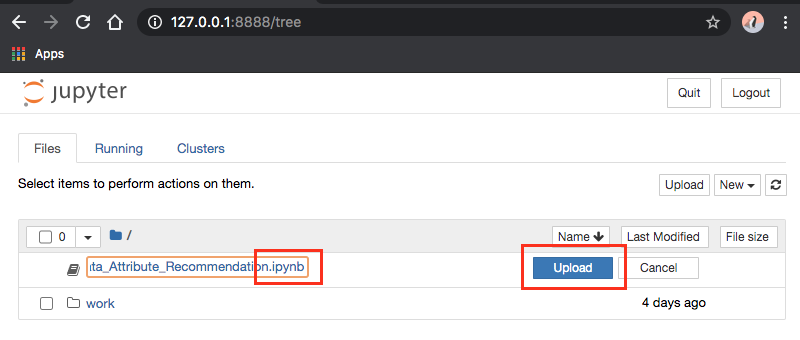
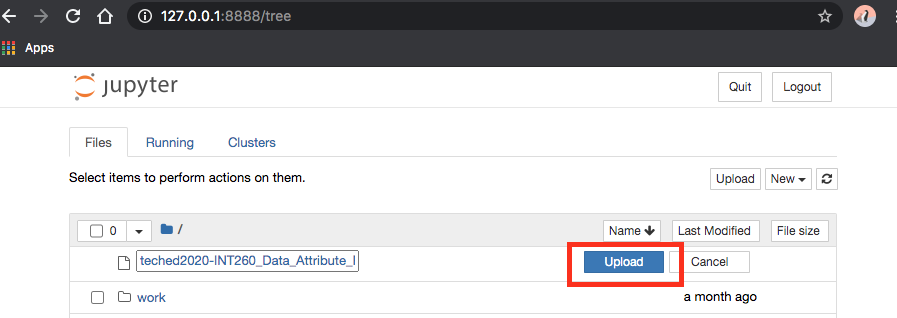
DAR: update notebook upload instructions

diff --git a/exercises/ex1-DAR/README.md b/exercises/ex1-DAR/README.md
@@ -186,16 +186,24 @@ Inside of your Jupyter environment, click the "Upload" button.
 
 ![Screenshot Upload 1](images/upload-1.png)
 
-In the file selection dialog, select the notebook file. Double-check that the
-file name ends with `.ipynb`. If the file has a different extension, please change
-the file extension to `.ipynb`. Then click the second "Upload" button:
+In the file selection dialog, select the notebook file. Then click the second "Upload" button:
 
 ![Screenshot Upload 2](images/upload-2.png)
+
+Double-check that the file name ends with `.ipynb`. If the file has a different
+extension, please change the file extension to `.ipynb`. First, select the row
+containing the file and then click the "Rename" button. 
+
+![Screenshot Upload 3](images/upload-3.png)
+
+Change the file extension to `ipynb`:
+
+![Screenshot Upload 4](images/upload-4.png)
 
 After the file is uploaded, simply click the file name in the file listing to start the
 notebook:
 
-![Screenshot Upload 3](images/upload-3.png)
+![Screenshot Upload 5](images/upload-5.png)
 
 ## How to obtain support
 
